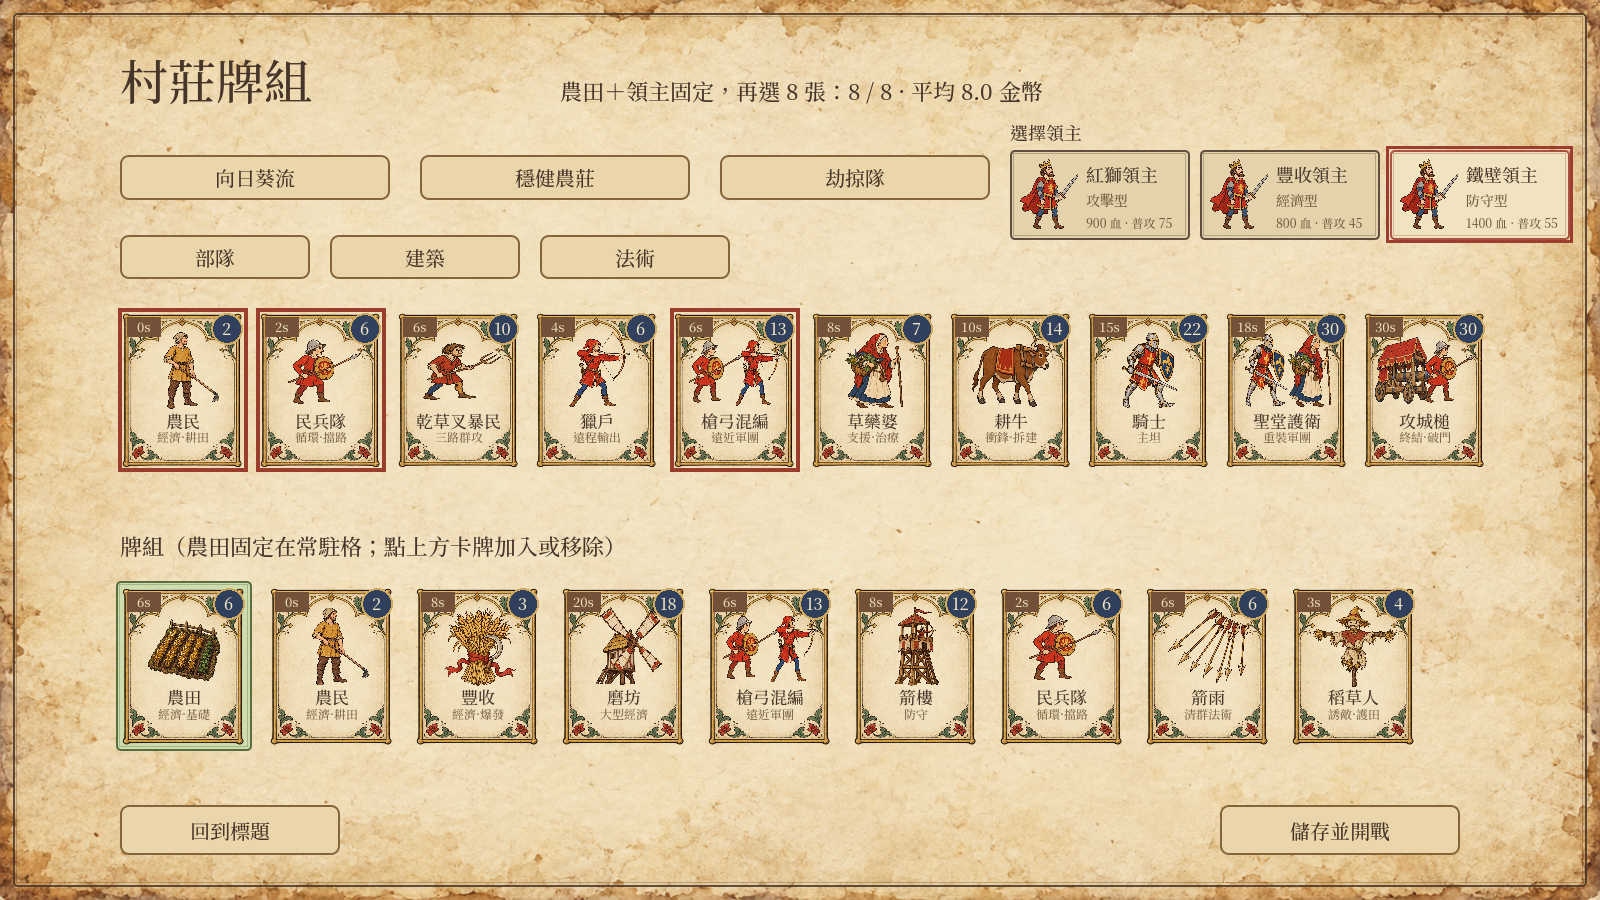
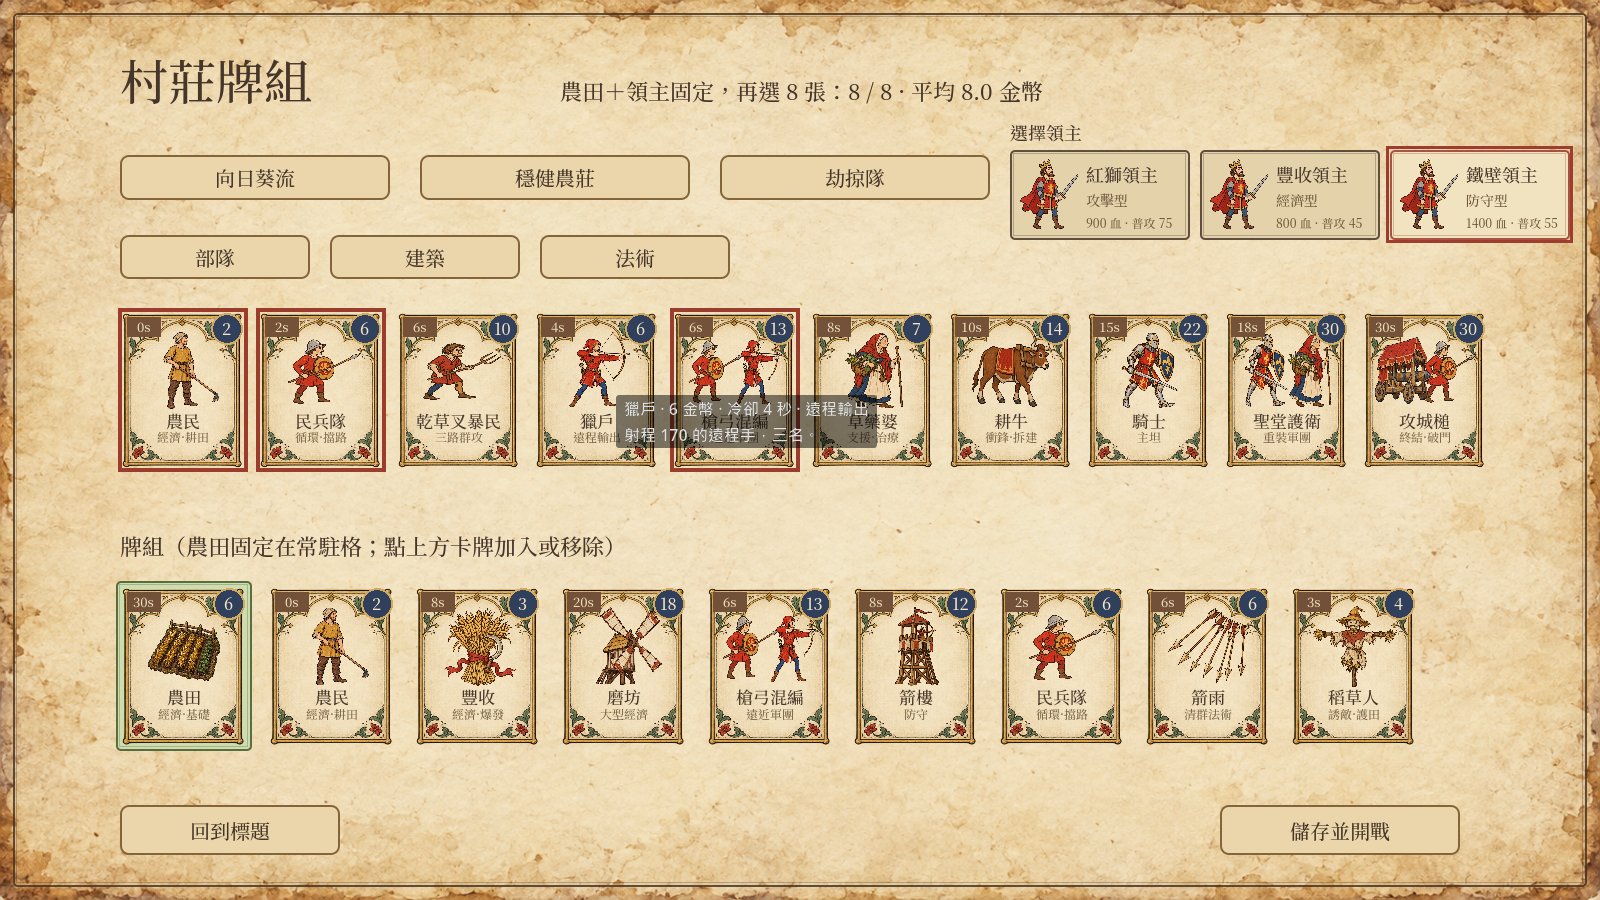
Farmland cooldown 6 -> 30 s
Producer decision 2026-10-29.

Changed region(s): [[0.375, 0.4356, 0.5625, 0.4978]]

diff --git a/docs/企劃書.md b/docs/企劃書.md
@@ -9,6 +9,7 @@
 >   - **卡牌只分三類：部隊、建築、法術。部隊一律往敵方前進，不會回頭。**
 >   - **領主完全由 AI 接管**（雙方），沒有手動操作。
 > - v4.1：**金幣上限 10 → 50**。金幣數字整體 ×2（費用、回復、產量），讓費用分得更細；出牌冷卻、AI 門檻、介面跟著調整。
+> - v6.1（2026-10-29）：農田冷卻 6 → 30 秒。
 > - v6.0（2026-10-29）：**墨水改名金幣**（介面、圖示改成錢袋與金色）。**牌組 10 張＝農田（固定）＋領主（固定）＋自選 8 張**；手牌區 6 格：常駐農田格（不輪轉、只有冷卻，鍵 F）、4 張輪轉手牌（1–4）、下一張預覽，三者外觀不同。領主在牌組畫面三選一：紅獅（攻擊型）、豐收（經濟型，全部農田 +25%）、鐵壁（防守型，1400 血、回血 ×2）。
 > - v5.10（2026-10-29）：移動速度拉開：暴民 62、耕牛衝鋒 90、農民 45、民兵 40、獵戶 32、草藥婆 30、騎士 26、攻城槌 18；軍團卡成員以最慢者的速度一起前進。
 > - v5.9（2026-10-29）：人數更多元（1–12 名）：草藥婆 7 費 1 名、耕牛 14 費 2 頭、騎士 22 費 2 名、獵戶 6 費 3 名、農民 2 費 3 名、聖堂護衛 30 費 2 騎士＋2 草藥婆、民兵 6 費 5 名、槍弓混編 13 費 4 民兵＋2 獵戶、暴民 10 費三路各 4 名、攻城槌 30 費＋4 名民兵護衛。
@@ -128,7 +129,7 @@
 
 - **牌組 10 張**＝**農田**（固定，不用選）＋**領主**（固定，三選一）＋**自選 8 張**。
 - **手牌區 6 格**，外觀各不相同：
-  1. **常駐農田格**（綠框、「常駐」標籤、鍵 F）：永遠可以種田，不會輪轉；種完只要等農田自己的冷卻（6 秒）。
+  1. **常駐農田格**（綠框、「常駐」標籤、鍵 F）：永遠可以種田，不會輪轉；種完只要等農田自己的冷卻（30 秒，v6.1）。
   2. **4 張輪轉手牌**（鍵 1–4）：打出後回到牌組最後面，新抽到的牌要先冷卻。
   3. **下一張預覽**（縮小、淡色、「下一張」標籤）。
 - 自選的 8 張牌洗牌輪轉；開局 4 張手牌沒有冷卻。
@@ -157,7 +158,7 @@
 
 | 費 | 卡 | 類型 | 定位 | 重點數值 |
 |---|---|---|---|---|
-|  |  |  |  | 冷卻（到手後）：農民 0、民兵 2、稻草人 3、獵戶 4、暴民 5、農田 6、箭雨 6、豐收 8、箭樓 8、草藥婆 8、耕牛 10、火罐 15、騎士 15、磨坊 20、攻城槌 30 秒 |
+|  |  |  |  | 冷卻（到手後）：農民 0、民兵 2、稻草人 3、獵戶 4、暴民 5、農田 30（常駐格）、箭雨 6、豐收 8、箭樓 8、草藥婆 8、耕牛 10、火罐 15、騎士 15、磨坊 20、攻城槌 30 秒 |
 | 2 | 農民 | 部隊 | 經濟·耕田 | 3 名，50 血；經過同一路我方農田停 1.5 秒耕地，田 15 秒內產量 ×2 |
 | 6 | 民兵隊 | 部隊 | 循環·擋路 | 5 名，85 血，13 傷害 / 0.95s |
 | 3 | 豐收 | 法術 | 經濟·爆發 | 半徑 120 內我方農田立刻各冒 1 滴，8 秒內 ×2 |
